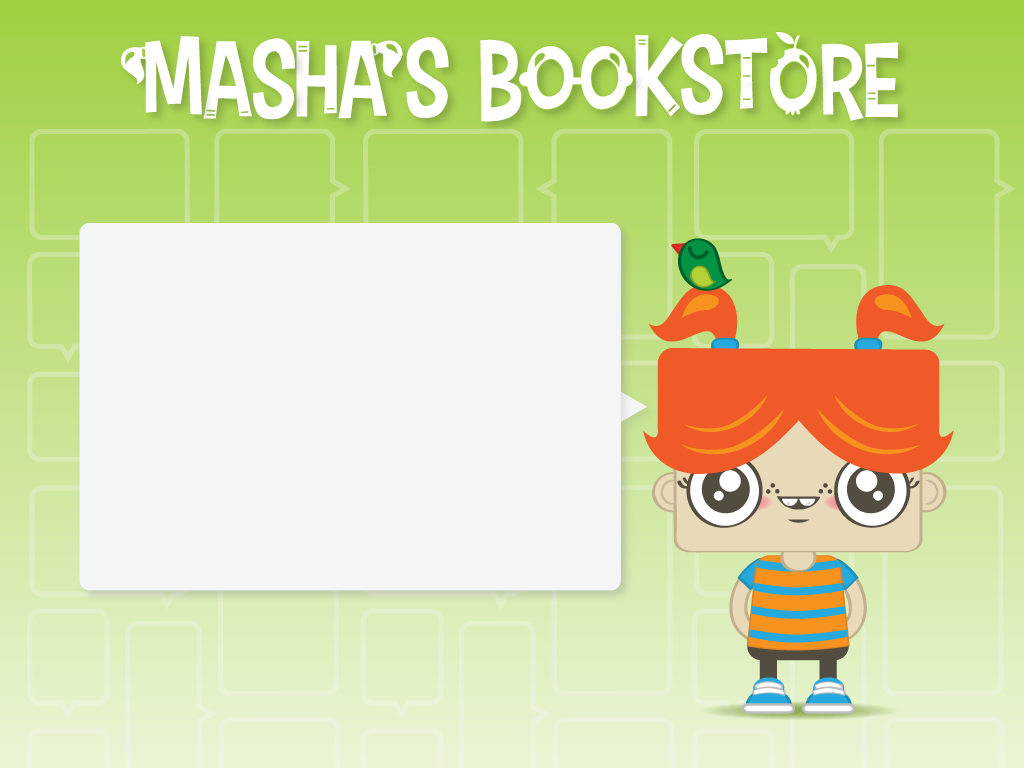
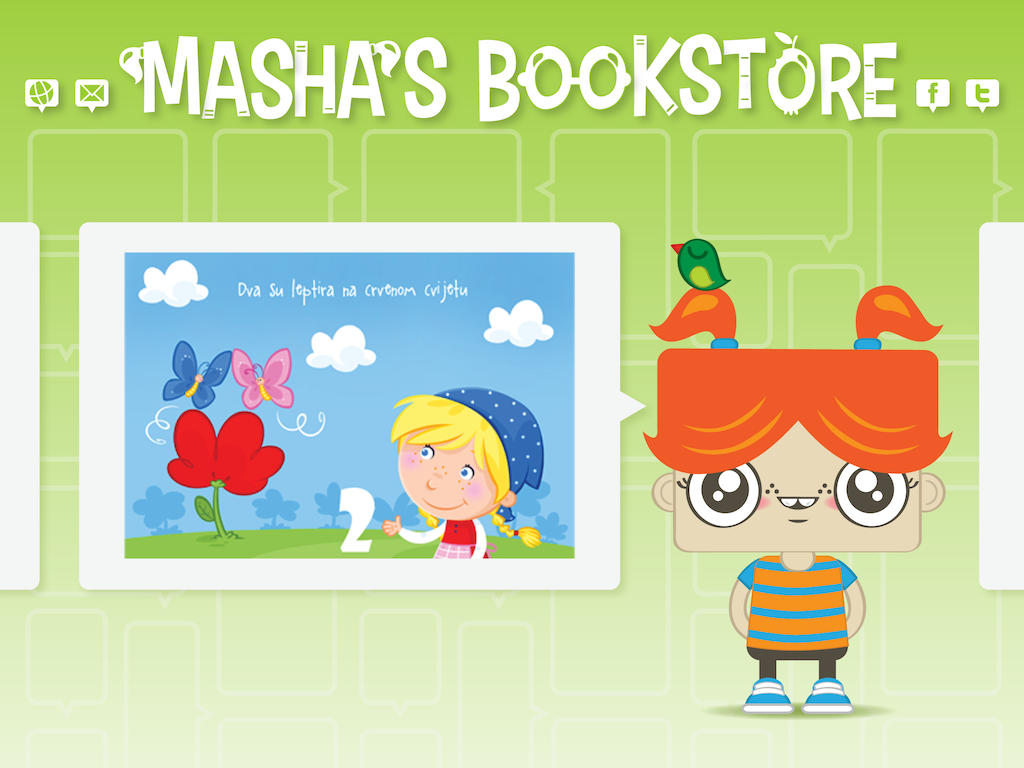
dodani gumbo gore u my books

diff --git a/Masha's Books/Masha's Books/MyBooksViewController.m b/Masha's Books/Masha's Books/MyBooksViewController.m
@@ -11,8 +11,9 @@
 #import "Image.h"
 #import "BookExtractor.h"
 #import "SlikovnicaRootViewController.h"
+#import <MessageUI/MessageUI.h>
 
-@interface MyBooksViewController ()<UIScrollViewDelegate, SlikovnicaRootViewControllerDelegate>
+@interface MyBooksViewController ()<UIScrollViewDelegate, SlikovnicaRootViewControllerDelegate, MFMailComposeViewControllerDelegate>
 @property (nonatomic, weak) IBOutlet UIScrollView *scrollView;
 @property (nonatomic, weak) IBOutlet UIView *scrollViewContainer;
 
@@ -220,4 +221,65 @@
 {
     [self loadVisiblePages];
 }
+
+#pragma mark - Top Buttons
+- (IBAction)goToWebSite:(UIButton *)sender {
+    [[UIApplication sharedApplication] openURL:[NSURL URLWithString:@"http://www.mashasbookstore.com"]];
+}
+
+- (IBAction)sendMail:(UIButton *)sender {
+    if ([MFMailComposeViewController canSendMail])
+    {
+        MFMailComposeViewController *mailer = [[MFMailComposeViewController alloc] init];
+        
+        mailer.mailComposeDelegate = self;
+        mailer.modalPresentationStyle = UIModalPresentationPageSheet;
+
+        NSArray *toRecipients = [NSArray arrayWithObjects:@"masha@mashasbookstore.com", @"ranko.munk@gmail.com", nil];
+        [mailer setToRecipients:toRecipients];
+        
+        [self presentModalViewController:mailer animated:YES];
+    }
+    else
+    {
+        UIAlertView *alert = [[UIAlertView alloc] initWithTitle:@"Error"
+                                                        message:@"Your device cannot send eMail!"
+                                                       delegate:nil
+                                              cancelButtonTitle:@"OK"
+                                              otherButtonTitles: nil];
+        [alert show];
+    }
+}
+
+- (void)mailComposeController:(MFMailComposeViewController*)controller didFinishWithResult:(MFMailComposeResult)result error:(NSError*)error
+{
+    switch (result)
+    {
+        case MFMailComposeResultCancelled:
+            NSLog(@"Mail cancelled: you cancelled the operation and no email message was queued.");
+            break;
+        case MFMailComposeResultSaved:
+            NSLog(@"Mail saved: you saved the email message in the drafts folder.");
+            break;
+        case MFMailComposeResultSent:
+            NSLog(@"Mail send: the email message is queued in the outbox. It is ready to send.");
+            break;
+        case MFMailComposeResultFailed:
+            NSLog(@"Mail failed: the email message was not saved or queued, possibly due to an error.");
+            break;
+        default:
+            NSLog(@"Mail not sent.");
+            break;
+    }
+    
+    // Remove the mail view
+    [self dismissModalViewControllerAnimated:YES];
+}
+
+- (IBAction)goToFacebook:(UIButton *)sender {
+}
+
+- (IBAction)tweet:(UIButton *)sender {
+}
+
 @end

diff --git a/Masha's Books/Masha's Books/PicturebookShop.m b/Masha's Books/Masha's Books/PicturebookShop.m
@@ -53,7 +53,7 @@
 
 - (PicturebookShop *)initShop {
     self = [super init];
-    self.shopURL = [[NSURL alloc] initWithString:@"http://www.mashasbooks.com/storeops/bookstore-xml.aspx"];
+    self.shopURL = [[NSURL alloc] initWithString:@"http://www.mashasbookstore.com/storeops/bookstore-xml.aspx"];
     //_shopURL = [[NSURL alloc] initWithString:@"http://dl.dropbox.com/u/286270/PicturebookShop.xml"];
     
     // Init library database UIManagedDocument
